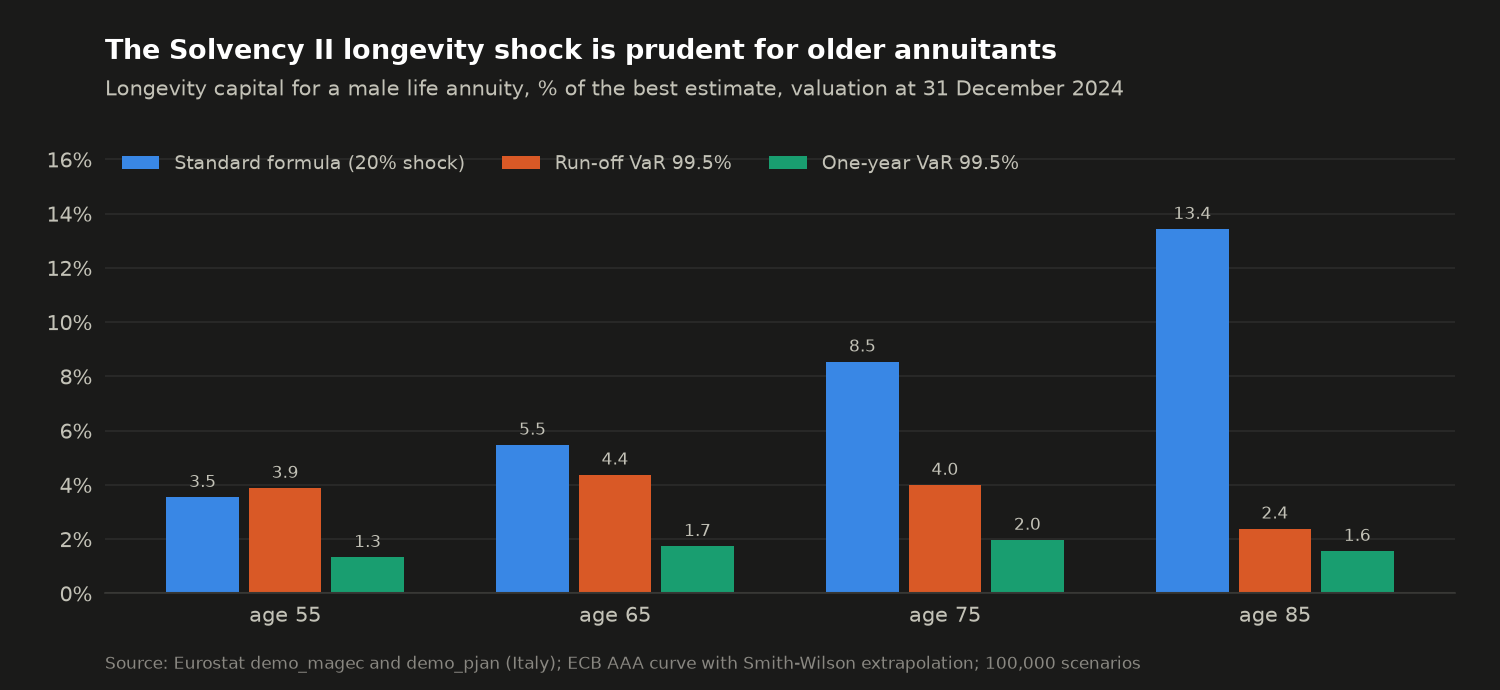
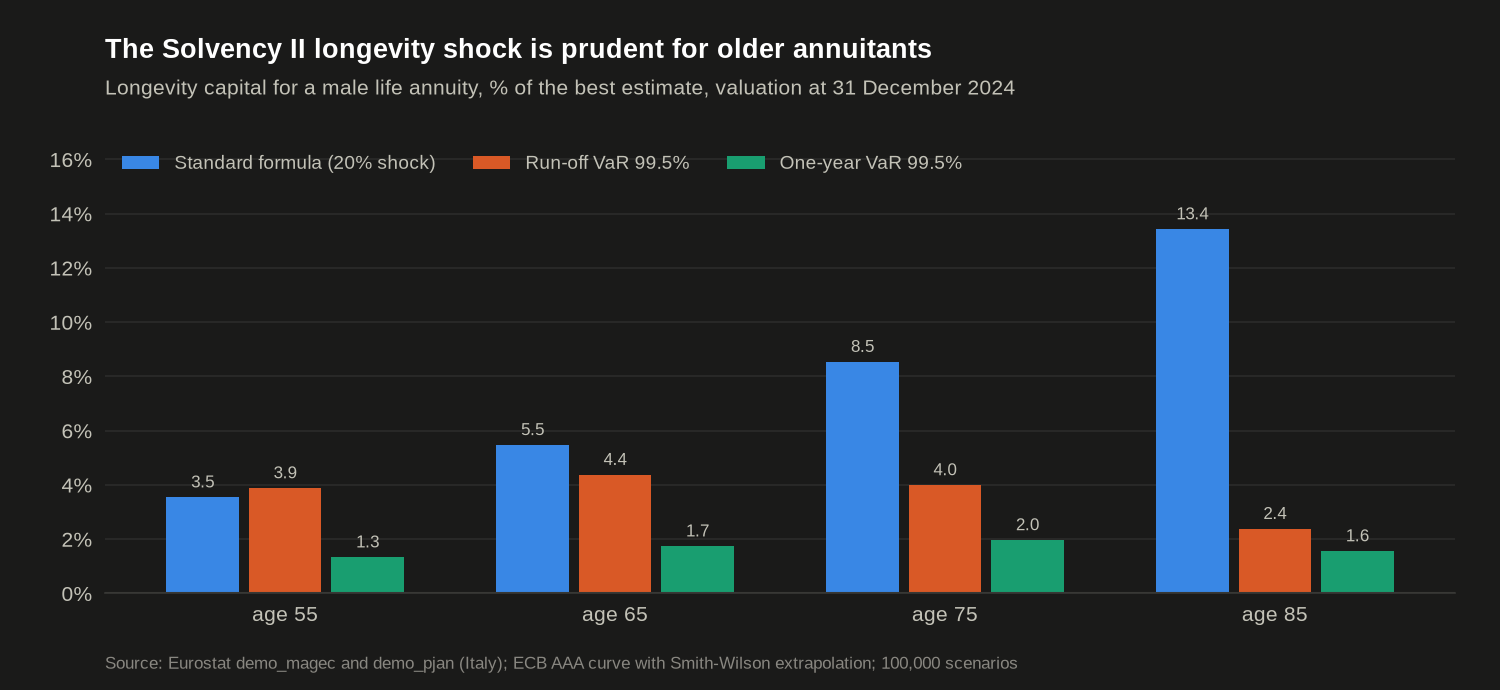
Modernise the chart style and add headline helpers
A neo-grotesque sans stack (Helvetica/Arial metrics, DejaVu Sans as the last
resort), a clearer type hierarchy, 1.5 pt lines and surface gaps between
touching fills, plus the notebook helpers for takeaway headlines, figure
headlines, direct end labels and in-bar value labels. The README figures are
redrawn in the new typeface with unchanged data.

Claude-Session: https://claude.ai/code/session_011MrWtf8yCZFcdASRPb3Zx8

diff --git a/scripts/longevity_risk/longevity_risk/figstyle.py b/scripts/longevity_risk/longevity_risk/figstyle.py
@@ -33,12 +33,15 @@ THEMES = {
 }
 
 WIDTH, DPI = 10.0, 150
+# A neo-grotesque sans stack: the first family installed is used (Liberation Sans and FreeSans are metric clones of
+# Arial and Helvetica available on most Linux systems); DejaVu Sans, bundled with matplotlib, is the last resort.
+SANS = ["Inter", "Helvetica Neue", "Helvetica", "Arial", "Liberation Sans", "FreeSans", "DejaVu Sans"]
 
 
 def rc(t: dict) -> dict:
     return {
         "figure.facecolor": t["surface"], "axes.facecolor": t["surface"], "savefig.facecolor": t["surface"],
-        "font.family": "sans-serif", "font.size": 10,
+        "font.family": "sans-serif", "font.sans-serif": SANS, "font.size": 10,
         "text.color": t["ink"], "axes.labelcolor": t["ink2"], "xtick.color": t["muted"], "ytick.color": t["muted"],
         "xtick.labelcolor": t["ink2"], "ytick.labelcolor": t["ink2"],
         "axes.edgecolor": t["axis"], "axes.linewidth": 0.8, "axes.grid": True, "axes.grid.axis": "y",
@@ -136,16 +139,78 @@ ORDINAL = ["#86b6ef", "#5598e7", "#2a78d6", "#1c5cab", "#104281"]   # one hue, l
 
 
 def notebook_style(dpi: int = 110) -> None:
-    """Matplotlib defaults for the notebooks: the light theme of the README charts (validated categorical
-    order, solid hairline grid behind the marks, no top or right spine, frameless legends, left-aligned
-    titles) and constrained layout, so that legends placed outside the axes, for example with
-    ``fig.legend(loc="outside lower center")``, never overlap titles, labels or data."""
+    """Matplotlib defaults for the notebooks, matching the README charts.
+
+    - validated categorical order, never cycled;
+    - neo-grotesque sans type with a clear hierarchy: a bold headline (see `headline`), a lighter subtitle, panel
+      titles and axis text in secondary ink;
+    - solid hairline grid behind the marks, no top, right or left spine, no tick marks;
+    - 1.5 pt lines, a thin surface-coloured edge on every bar and patch so that touching fills are separated by a
+      gap rather than an outline;
+    - frameless legends and constrained layout, so that legends placed outside the axes, for example with
+      ``fig.legend(loc="outside lower center")``, and direct labels never overlap titles, labels or data.
+    """
     import matplotlib as mpl
 
     params = rc(NOTEBOOK)
-    params.update({"figure.dpi": dpi, "figure.constrained_layout.use": True, "axes.titlesize": 11,
-                   "axes.titlelocation": "left", "axes.titlepad": 8, "legend.fontsize": 8.5})
+    params.update({
+        "figure.dpi": dpi, "figure.constrained_layout.use": True,
+        "figure.constrained_layout.h_pad": 0.06, "figure.constrained_layout.w_pad": 0.06,
+        "figure.titlesize": 13, "figure.titleweight": "bold",
+        "axes.titlesize": 10.5, "axes.titlelocation": "left", "axes.titlepad": 8, "axes.titlecolor": NOTEBOOK["ink2"],
+        "axes.labelsize": 9, "xtick.labelsize": 8.5, "ytick.labelsize": 8.5,
+        "legend.fontsize": 8.5, "legend.handlelength": 1.4, "legend.columnspacing": 1.6,
+        "lines.linewidth": 1.5, "patch.force_edgecolor": True, "patch.edgecolor": NOTEBOOK["surface"],
+        "patch.linewidth": 1.0,
+    })
     mpl.rcParams.update(params)
+
+
+def headline(ax, title: str, subtitle: str | None = None) -> None:
+    """Bold takeaway title and a lighter subtitle (what is plotted, in which units), left-aligned above `ax`.
+
+    Both are artists of the axes, so constrained layout reserves room for them. Keep the subtitle to one line.
+    """
+    pad = 8.0
+    if subtitle:
+        ax.annotate(subtitle, (0, 1), xycoords="axes fraction", xytext=(0, 7), textcoords="offset points",
+                    ha="left", va="bottom", fontsize=9.5, color=NOTEBOOK["ink2"], annotation_clip=False)
+        pad = 7 + 9.5 * 1.3 + 6
+    ax.set_title(title, loc="left", fontsize=12.5, fontweight="bold", color=NOTEBOOK["ink"], pad=pad)
+
+
+def figure_headline(fig, title: str) -> None:
+    """Bold takeaway title over a multi-panel figure; the panel titles say what each panel shows."""
+    fig.suptitle(title, x=0.01, ha="left", fontsize=13, fontweight="bold", color=NOTEBOOK["ink"])
+
+
+def label_ends(ax, series: dict, colors: dict, fmt=None, min_gap: float = 12.0) -> None:
+    """Direct labels at the right end of line series.
+
+    `series` maps a name to a pandas Series; each label is a dot with a surface ring on the last point and the name
+    (and, with `fmt`, the last value) in neutral ink. Labels are spread vertically to at least `min_gap` points.
+    """
+    names = list(series)
+    ends = [(series[n].index[-1], float(series[n].iloc[-1])) for n in names]
+    offsets = label_offsets(ax, [y for _, y in ends], min_gap=min_gap)
+    for name, (x, y), dy in zip(names, ends, offsets):
+        text = name if fmt is None else f"{name}  {fmt(y)}"
+        end_label(ax, NOTEBOOK, x, y, text, colors[name], dy=dy)
+
+
+def label_bar_segments(ax, bars, values, fmt, min_value: float) -> None:
+    """Value labels centred inside horizontal bar segments that are wide enough (`values` >= `min_value`), in
+    white or ink according to the luminance of the fill; smaller segments are left to the legend and the table."""
+    from matplotlib.colors import to_rgb
+
+    for bar, value in zip(bars, values):
+        if value < min_value:
+            continue
+        r, g, b = (c / 12.92 if c <= 0.04045 else ((c + 0.055) / 1.055) ** 2.4 for c in to_rgb(bar.get_facecolor()))
+        luminance = 0.2126 * r + 0.7152 * g + 0.0722 * b
+        ink = NOTEBOOK["ink"] if luminance > 0.18 else "white"
+        ax.text(bar.get_x() + bar.get_width() / 2, bar.get_y() + bar.get_height() / 2, fmt(value), ha="center",
+                va="center", fontsize=8, color=ink)
 
 
 def ordinal_colors(n: int) -> list:
